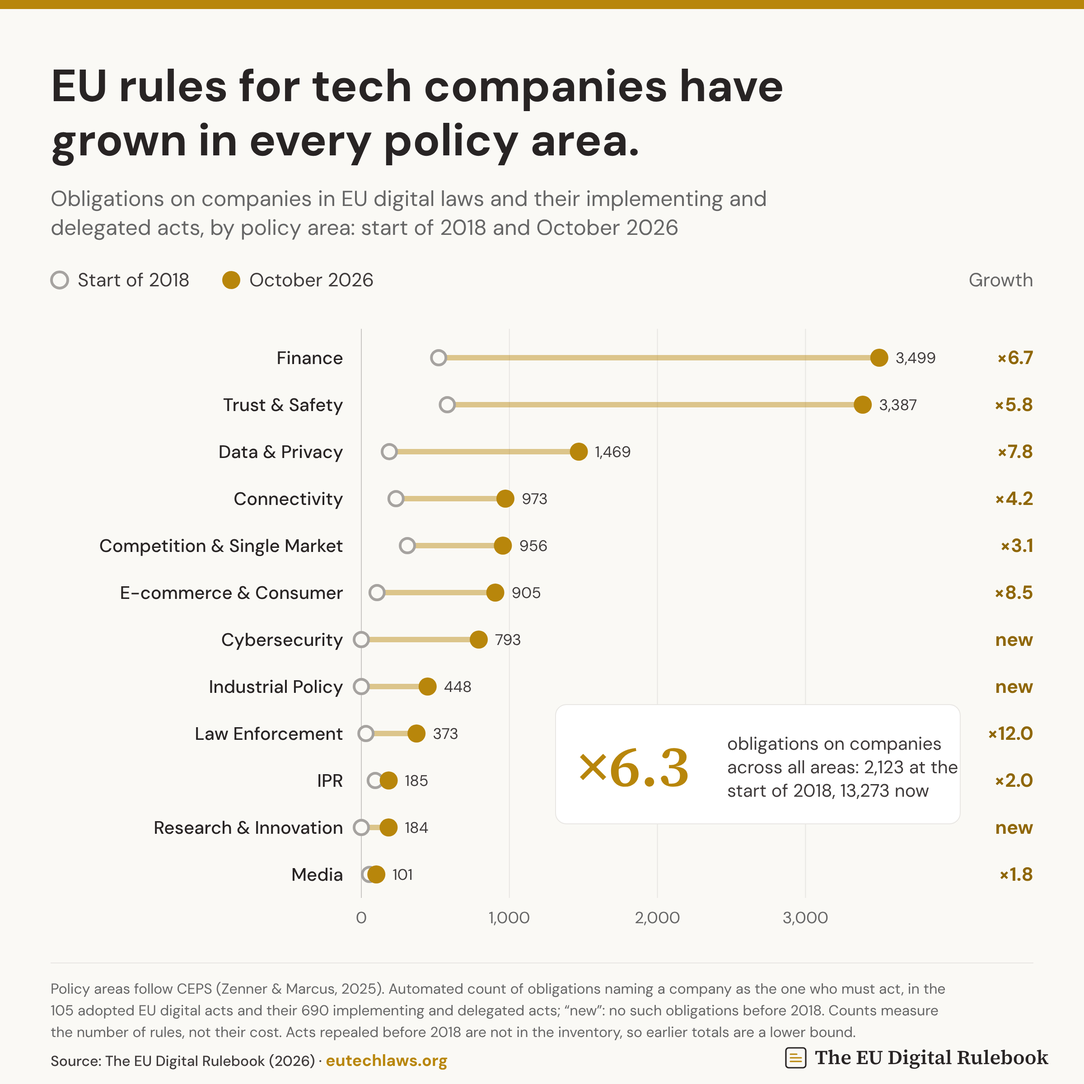
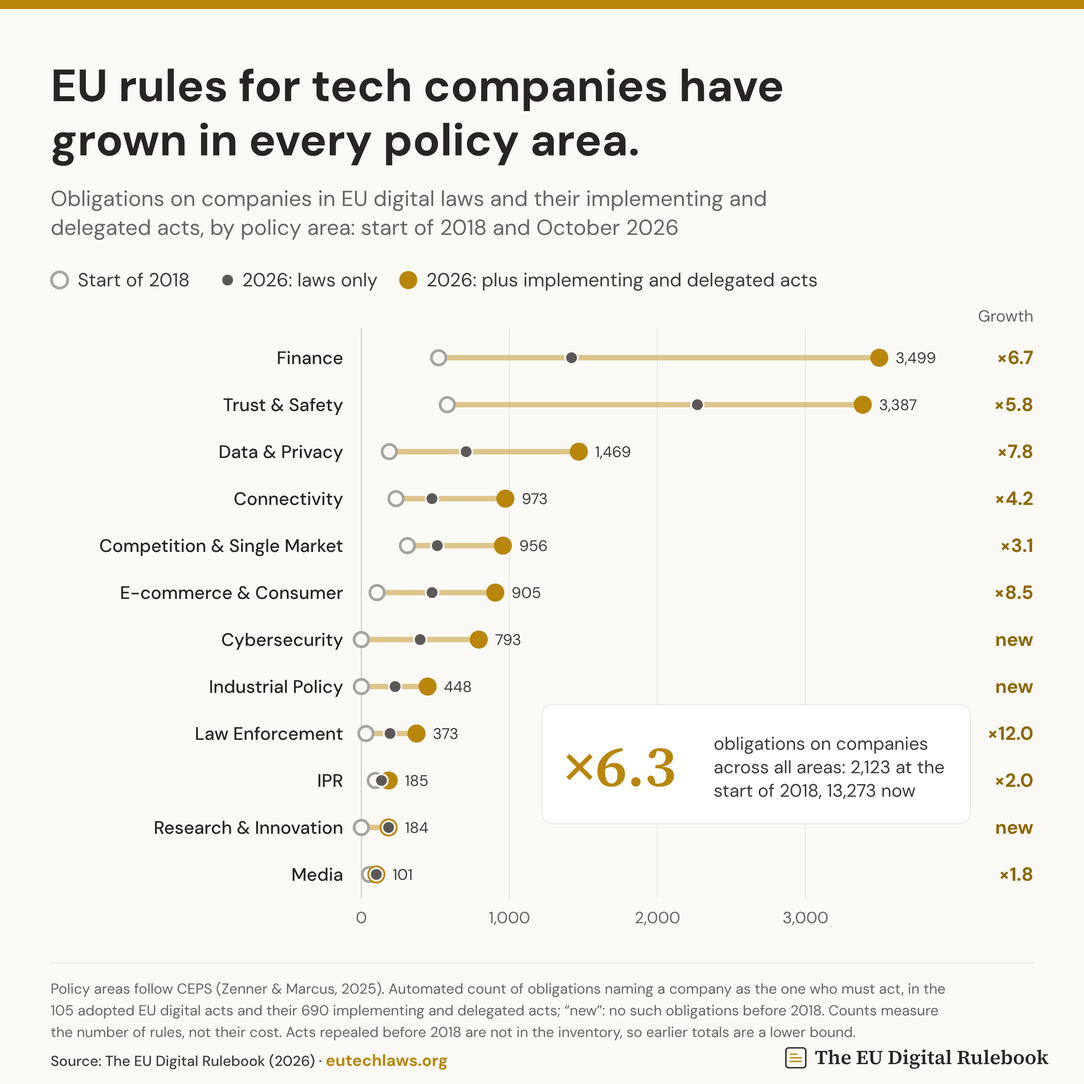
Growth-by-area infographic: laws-only dot for 2026, wider callout
Claude-Session: https://claude.ai/code/session_015jJNgYEity1n7oPe2my2VN

diff --git a/research/ceps_metrics/site/mockup/InfographicAreasGrowth.dc.html b/research/ceps_metrics/site/mockup/InfographicAreasGrowth.dc.html
@@ -13,7 +13,7 @@
 <style>body{margin:0;background:#FAF9F5}</style>
 </helmet>
 <div style="width: 100%; max-width: 1200px; margin: 0 auto; background: #FAF9F5">
-<svg xmlns="http://www.w3.org/2000/svg" viewBox="0 0 1200 1200" width="100%" role="img" aria-label="EU rules for tech companies have grown in every policy area. Obligations on companies, start of 2018 to October 2026: Finance 522 to 3,499; Trust &amp; Safety 581 to 3,387; Data &amp; Privacy 189 to 1,469; Connectivity 234 to 973; Competition &amp; Single Market 311 to 956; E-commerce &amp; Consumer Protection 106 to 905; Cybersecurity 0 to 793; Industrial Policy 0 to 448; Law Enforcement 31 to 373; IPR 94 to 185; Research &amp; Innovation 0 to 184; Media 55 to 101. Across all areas x6.3."><rect width="1200" height="1200" fill="#FAF9F5"></rect><rect width="1200" height="10" fill="#B8860B"></rect><text x="56.0" y="112.0" text-anchor="start" font-family="DM Sans, sans-serif" font-size="50" font-weight="700" fill="#282424">EU rules for tech companies have</text><text x="56.0" y="172.0" text-anchor="start" font-family="DM Sans, sans-serif" font-size="50" font-weight="700" fill="#282424">grown in every policy area.</text><text x="56.0" y="228.0" text-anchor="start" font-family="DM Sans, sans-serif" font-size="24" font-weight="400" fill="#666666">Obligations on companies in EU digital laws and their implementing and</text><text x="56.0" y="260.0" text-anchor="start" font-family="DM Sans, sans-serif" font-size="24" font-weight="400" fill="#666666">delegated acts, by policy area: start of 2018 and October 2026</text><circle cx="66" cy="310" r="9" fill="#FAF9F5" stroke="#A6A3A0" stroke-width="3"></circle><text x="86.0" y="317.0" text-anchor="start" font-family="DM Sans, sans-serif" font-size="21" font-weight="400" fill="#3F3B3B">Start of 2018</text><circle cx="256" cy="310" r="10" fill="#B8860B"></circle><text x="276.0" y="317.0" text-anchor="start" font-family="DM Sans, sans-serif" font-size="21" font-weight="400" fill="#3F3B3B">October 2026</text><text x="1144.0" y="317.0" text-anchor="end" font-family="DM Sans, sans-serif" font-size="21" font-weight="400" fill="#666666">Growth</text><line x1="400.0" x2="400.0" y1="364" y2="994" stroke="#C9C6C3"></line><text x="400.0" y="1022.0" text-anchor="middle" font-family="DM Sans, sans-serif" font-size="18" font-weight="400" fill="#666666">0</text><line x1="563.9" x2="563.9" y1="364" y2="994" stroke="#E8E6E3"></line><text x="563.9" y="1022.0" text-anchor="middle" font-family="DM Sans, sans-serif" font-size="18" font-weight="400" fill="#666666">1,000</text><line x1="727.8" x2="727.8" y1="364" y2="994" stroke="#E8E6E3"></line><text x="727.8" y="1022.0" text-anchor="middle" font-family="DM Sans, sans-serif" font-size="18" font-weight="400" fill="#666666">2,000</text><line x1="891.7" x2="891.7" y1="364" y2="994" stroke="#E8E6E3"></line><text x="891.7" y="1022.0" text-anchor="middle" font-family="DM Sans, sans-serif" font-size="18" font-weight="400" fill="#666666">3,000</text><text x="380.0" y="403.0" text-anchor="end" font-family="DM Sans, sans-serif" font-size="20" font-weight="500" fill="#282424">Finance</text><line x1="485.6" x2="973.4" y1="396.0" y2="396.0" stroke="#B8860B" stroke-opacity="0.45" stroke-width="6" stroke-linecap="round"></line><circle cx="485.6" cy="396.0" r="8" fill="#FAF9F5" stroke="#A6A3A0" stroke-width="3"></circle><circle cx="973.4" cy="396.0" r="10" fill="#B8860B"></circle><text x="991.4" y="402.0" text-anchor="start" font-family="DM Sans, sans-serif" font-size="17" font-weight="400" fill="#3F3B3B">3,499</text><text x="1144.0" y="403.0" text-anchor="end" font-family="DM Sans, sans-serif" font-size="21" font-weight="700" fill="#8F6708">×6.7</text><text x="380.0" y="455.0" text-anchor="end" font-family="DM Sans, sans-serif" font-size="20" font-weight="500" fill="#282424">Trust &amp; Safety</text><line x1="495.2" x2="955.1" y1="448.0" y2="448.0" stroke="#B8860B" stroke-opacity="0.45" stroke-width="6" stroke-linecap="round"></line><circle cx="495.2" cy="448.0" r="8" fill="#FAF9F5" stroke="#A6A3A0" stroke-width="3"></circle><circle cx="955.1" cy="448.0" r="10" fill="#B8860B"></circle><text x="973.1" y="454.0" text-anchor="start" font-family="DM Sans, sans-serif" font-size="17" font-weight="400" fill="#3F3B3B">3,387</text><text x="1144.0" y="455.0" text-anchor="end" font-family="DM Sans, sans-serif" font-size="21" font-weight="700" fill="#8F6708">×5.8</text><text x="380.0" y="507.0" text-anchor="end" font-family="DM Sans, sans-serif" font-size="20" font-weight="500" fill="#282424">Data &amp; Privacy</text><line x1="431.0" x2="640.8" y1="500.0" y2="500.0" stroke="#B8860B" stroke-opacity="0.45" stroke-width="6" stroke-linecap="round"></line><circle cx="431.0" cy="500.0" r="8" fill="#FAF9F5" stroke="#A6A3A0" stroke-width="3"></circle><circle cx="640.8" cy="500.0" r="10" fill="#B8860B"></circle><text x="658.8" y="506.0" text-anchor="start" font-family="DM Sans, sans-serif" font-size="17" font-weight="400" fill="#3F3B3B">1,469</text><text x="1144.0" y="507.0" text-anchor="end" font-family="DM Sans, sans-serif" font-size="21" font-weight="700" fill="#8F6708">×7.8</text><text x="380.0" y="559.0" text-anchor="end" font-family="DM Sans, sans-serif" font-size="20" font-weight="500" fill="#282424">Connectivity</text><line x1="438.4" x2="559.5" y1="552.0" y2="552.0" stroke="#B8860B" stroke-opacity="0.45" stroke-width="6" stroke-linecap="round"></line><circle cx="438.4" cy="552.0" r="8" fill="#FAF9F5" stroke="#A6A3A0" stroke-width="3"></circle><circle cx="559.5" cy="552.0" r="10" fill="#B8860B"></circle><text x="577.5" y="558.0" text-anchor="start" font-family="DM Sans, sans-serif" font-size="17" font-weight="400" fill="#3F3B3B">973</text><text x="1144.0" y="559.0" text-anchor="end" font-family="DM Sans, sans-serif" font-size="21" font-weight="700" fill="#8F6708">×4.2</text><text x="380.0" y="611.0" text-anchor="end" font-family="DM Sans, sans-serif" font-size="20" font-weight="500" fill="#282424">Competition &amp; Single Market</text><line x1="451.0" x2="556.7" y1="604.0" y2="604.0" stroke="#B8860B" stroke-opacity="0.45" stroke-width="6" stroke-linecap="round"></line><circle cx="451.0" cy="604.0" r="8" fill="#FAF9F5" stroke="#A6A3A0" stroke-width="3"></circle><circle cx="556.7" cy="604.0" r="10" fill="#B8860B"></circle><text x="574.7" y="610.0" text-anchor="start" font-family="DM Sans, sans-serif" font-size="17" font-weight="400" fill="#3F3B3B">956</text><text x="1144.0" y="611.0" text-anchor="end" font-family="DM Sans, sans-serif" font-size="21" font-weight="700" fill="#8F6708">×3.1</text><text x="380.0" y="663.0" text-anchor="end" font-family="DM Sans, sans-serif" font-size="20" font-weight="500" fill="#282424">E-commerce &amp; Consumer</text><line x1="417.4" x2="548.3" y1="656.0" y2="656.0" stroke="#B8860B" stroke-opacity="0.45" stroke-width="6" stroke-linecap="round"></line><circle cx="417.4" cy="656.0" r="8" fill="#FAF9F5" stroke="#A6A3A0" stroke-width="3"></circle><circle cx="548.3" cy="656.0" r="10" fill="#B8860B"></circle><text x="566.3" y="662.0" text-anchor="start" font-family="DM Sans, sans-serif" font-size="17" font-weight="400" fill="#3F3B3B">905</text><text x="1144.0" y="663.0" text-anchor="end" font-family="DM Sans, sans-serif" font-size="21" font-weight="700" fill="#8F6708">×8.5</text><text x="380.0" y="715.0" text-anchor="end" font-family="DM Sans, sans-serif" font-size="20" font-weight="500" fill="#282424">Cybersecurity</text><line x1="400.0" x2="530.0" y1="708.0" y2="708.0" stroke="#B8860B" stroke-opacity="0.45" stroke-width="6" stroke-linecap="round"></line><circle cx="400.0" cy="708.0" r="8" fill="#FAF9F5" stroke="#A6A3A0" stroke-width="3"></circle><circle cx="530.0" cy="708.0" r="10" fill="#B8860B"></circle><text x="548.0" y="714.0" text-anchor="start" font-family="DM Sans, sans-serif" font-size="17" font-weight="400" fill="#3F3B3B">793</text><text x="1144.0" y="715.0" text-anchor="end" font-family="DM Sans, sans-serif" font-size="21" font-weight="700" fill="#8F6708">new</text><text x="380.0" y="767.0" text-anchor="end" font-family="DM Sans, sans-serif" font-size="20" font-weight="500" fill="#282424">Industrial Policy</text><line x1="400.0" x2="473.4" y1="760.0" y2="760.0" stroke="#B8860B" stroke-opacity="0.45" stroke-width="6" stroke-linecap="round"></line><circle cx="400.0" cy="760.0" r="8" fill="#FAF9F5" stroke="#A6A3A0" stroke-width="3"></circle><circle cx="473.4" cy="760.0" r="10" fill="#B8860B"></circle><text x="491.4" y="766.0" text-anchor="start" font-family="DM Sans, sans-serif" font-size="17" font-weight="400" fill="#3F3B3B">448</text><text x="1144.0" y="767.0" text-anchor="end" font-family="DM Sans, sans-serif" font-size="21" font-weight="700" fill="#8F6708">new</text><text x="380.0" y="819.0" text-anchor="end" font-family="DM Sans, sans-serif" font-size="20" font-weight="500" fill="#282424">Law Enforcement</text><line x1="405.1" x2="461.1" y1="812.0" y2="812.0" stroke="#B8860B" stroke-opacity="0.45" stroke-width="6" stroke-linecap="round"></line><circle cx="405.1" cy="812.0" r="8" fill="#FAF9F5" stroke="#A6A3A0" stroke-width="3"></circle><circle cx="461.1" cy="812.0" r="10" fill="#B8860B"></circle><text x="479.1" y="818.0" text-anchor="start" font-family="DM Sans, sans-serif" font-size="17" font-weight="400" fill="#3F3B3B">373</text><text x="1144.0" y="819.0" text-anchor="end" font-family="DM Sans, sans-serif" font-size="21" font-weight="700" fill="#8F6708">×12.0</text><text x="380.0" y="871.0" text-anchor="end" font-family="DM Sans, sans-serif" font-size="20" font-weight="500" fill="#282424">IPR</text><line x1="415.4" x2="430.3" y1="864.0" y2="864.0" stroke="#B8860B" stroke-opacity="0.45" stroke-width="6" stroke-linecap="round"></line><circle cx="415.4" cy="864.0" r="8" fill="#FAF9F5" stroke="#A6A3A0" stroke-width="3"></circle><circle cx="430.3" cy="864.0" r="10" fill="#B8860B"></circle><text x="448.3" y="870.0" text-anchor="start" font-family="DM Sans, sans-serif" font-size="17" font-weight="400" fill="#3F3B3B">185</text><text x="1144.0" y="871.0" text-anchor="end" font-family="DM Sans, sans-serif" font-size="21" font-weight="700" fill="#8F6708">×2.0</text><text x="380.0" y="923.0" text-anchor="end" font-family="DM Sans, sans-serif" font-size="20" font-weight="500" fill="#282424">Research &amp; Innovation</text><line x1="400.0" x2="430.2" y1="916.0" y2="916.0" stroke="#B8860B" stroke-opacity="0.45" stroke-width="6" stroke-linecap="round"></line><circle cx="400.0" cy="916.0" r="8" fill="#FAF9F5" stroke="#A6A3A0" stroke-width="3"></circle><circle cx="430.2" cy="916.0" r="10" fill="#B8860B"></circle><text x="448.2" y="922.0" text-anchor="start" font-family="DM Sans, sans-serif" font-size="17" font-weight="400" fill="#3F3B3B">184</text><text x="1144.0" y="923.0" text-anchor="end" font-family="DM Sans, sans-serif" font-size="21" font-weight="700" fill="#8F6708">new</text><text x="380.0" y="975.0" text-anchor="end" font-family="DM Sans, sans-serif" font-size="20" font-weight="500" fill="#282424">Media</text><line x1="409.0" x2="416.6" y1="968.0" y2="968.0" stroke="#B8860B" stroke-opacity="0.45" stroke-width="6" stroke-linecap="round"></line><circle cx="409.0" cy="968.0" r="8" fill="#FAF9F5" stroke="#A6A3A0" stroke-width="3"></circle><circle cx="416.6" cy="968.0" r="10" fill="#B8860B"></circle><text x="434.6" y="974.0" text-anchor="start" font-family="DM Sans, sans-serif" font-size="17" font-weight="400" fill="#3F3B3B">101</text><text x="1144.0" y="975.0" text-anchor="end" font-family="DM Sans, sans-serif" font-size="21" font-weight="700" fill="#8F6708">×1.8</text><rect x="615" y="780" width="448" height="132" rx="12" fill="#FFFFFF" stroke="#E8E6E3"></rect><text x="639.0" y="870.0" text-anchor="start" font-family="'Source Serif 4', Georgia, serif" font-size="64" font-weight="700" fill="#B8860B">×6.3</text><text x="805.0" y="830.0" text-anchor="start" font-family="DM Sans, sans-serif" font-size="20" font-weight="400" fill="#3F3B3B">obligations on companies</text><text x="805.0" y="856.0" text-anchor="start" font-family="DM Sans, sans-serif" font-size="20" font-weight="400" fill="#3F3B3B">across all areas: 2,123 at the</text><text x="805.0" y="882.0" text-anchor="start" font-family="DM Sans, sans-serif" font-size="20" font-weight="400" fill="#3F3B3B">start of 2018, 13,273 now</text><line x1="56" x2="1144" y1="1066" y2="1066" stroke="#E8E6E3"></line><text x="56.0" y="1100.0" text-anchor="start" font-family="DM Sans, sans-serif" font-size="16" font-weight="400" fill="#666666">Policy areas follow CEPS (Zenner &amp; Marcus, 2025). Automated count of obligations naming a company as the one who must act, in the</text><text x="56.0" y="1124.0" text-anchor="start" font-family="DM Sans, sans-serif" font-size="16" font-weight="400" fill="#666666">105 adopted EU digital acts and their 690 implementing and delegated acts; “new”: no such obligations before 2018. Counts measure</text><text x="56.0" y="1148.0" text-anchor="start" font-family="DM Sans, sans-serif" font-size="16" font-weight="400" fill="#666666">the number of rules, not their cost. Acts repealed before 2018 are not in the inventory, so earlier totals are a lower bound.</text><g transform="translate(870,1160)"><rect x="0" y="0" width="22" height="22" rx="3" fill="none" stroke="#282424" stroke-width="1.6"></rect><path d="M5 15h12M5 11h12M5 7h7" stroke="#B8860B" stroke-width="1.6" stroke-linecap="round"></path></g><text x="902.0" y="1178.0" text-anchor="start" font-family="'Source Serif 4', Georgia, serif" font-size="22" font-weight="400" fill="#282424">The EU Digital Rulebook</text><text x="56.0" y="1180.0" text-anchor="start" font-family="DM Sans, sans-serif" font-size="16" font-weight="500" fill="#3F3B3B">Source: The EU Digital Rulebook (2026) · <tspan fill="#B8860B" font-weight="700" font-size="18">eutechlaws.org</tspan></text></svg>
+<svg xmlns="http://www.w3.org/2000/svg" viewBox="0 0 1200 1200" width="100%" role="img" aria-label="EU rules for tech companies have grown in every policy area. Obligations on companies, start of 2018 to October 2026: Finance 522 to 3,499; Trust &amp; Safety 581 to 3,387; Data &amp; Privacy 189 to 1,469; Connectivity 234 to 973; Competition &amp; Single Market 311 to 956; E-commerce &amp; Consumer Protection 106 to 905; Cybersecurity 0 to 793; Industrial Policy 0 to 448; Law Enforcement 31 to 373; IPR 94 to 185; Research &amp; Innovation 0 to 184; Media 55 to 101. Across all areas x6.3."><rect width="1200" height="1200" fill="#FAF9F5"></rect><rect width="1200" height="10" fill="#B8860B"></rect><text x="56.0" y="112.0" text-anchor="start" font-family="DM Sans, sans-serif" font-size="50" font-weight="700" fill="#282424">EU rules for tech companies have</text><text x="56.0" y="172.0" text-anchor="start" font-family="DM Sans, sans-serif" font-size="50" font-weight="700" fill="#282424">grown in every policy area.</text><text x="56.0" y="228.0" text-anchor="start" font-family="DM Sans, sans-serif" font-size="24" font-weight="400" fill="#666666">Obligations on companies in EU digital laws and their implementing and</text><text x="56.0" y="260.0" text-anchor="start" font-family="DM Sans, sans-serif" font-size="24" font-weight="400" fill="#666666">delegated acts, by policy area: start of 2018 and October 2026</text><circle cx="66" cy="310" r="9" fill="#FAF9F5" stroke="#A6A3A0" stroke-width="3"></circle><text x="86.0" y="317.0" text-anchor="start" font-family="DM Sans, sans-serif" font-size="21" font-weight="400" fill="#3F3B3B">Start of 2018</text><circle cx="252" cy="310" r="7" fill="#5C5858" stroke="#FAF9F5" stroke-width="2"></circle><text x="268.0" y="317.0" text-anchor="start" font-family="DM Sans, sans-serif" font-size="21" font-weight="400" fill="#3F3B3B">2026: laws only</text><circle cx="452" cy="310" r="10" fill="#B8860B"></circle><text x="472.0" y="317.0" text-anchor="start" font-family="DM Sans, sans-serif" font-size="21" font-weight="400" fill="#3F3B3B">2026: plus implementing and delegated acts</text><text x="1144.0" y="356.0" text-anchor="end" font-family="DM Sans, sans-serif" font-size="18" font-weight="400" fill="#666666">Growth</text><line x1="400.0" x2="400.0" y1="364" y2="994" stroke="#C9C6C3"></line><text x="400.0" y="1022.0" text-anchor="middle" font-family="DM Sans, sans-serif" font-size="18" font-weight="400" fill="#666666">0</text><line x1="563.9" x2="563.9" y1="364" y2="994" stroke="#E8E6E3"></line><text x="563.9" y="1022.0" text-anchor="middle" font-family="DM Sans, sans-serif" font-size="18" font-weight="400" fill="#666666">1,000</text><line x1="727.8" x2="727.8" y1="364" y2="994" stroke="#E8E6E3"></line><text x="727.8" y="1022.0" text-anchor="middle" font-family="DM Sans, sans-serif" font-size="18" font-weight="400" fill="#666666">2,000</text><line x1="891.7" x2="891.7" y1="364" y2="994" stroke="#E8E6E3"></line><text x="891.7" y="1022.0" text-anchor="middle" font-family="DM Sans, sans-serif" font-size="18" font-weight="400" fill="#666666">3,000</text><text x="380.0" y="403.0" text-anchor="end" font-family="DM Sans, sans-serif" font-size="20" font-weight="500" fill="#282424">Finance</text><line x1="485.6" x2="973.4" y1="396.0" y2="396.0" stroke="#B8860B" stroke-opacity="0.45" stroke-width="6" stroke-linecap="round"></line><circle cx="485.6" cy="396.0" r="8" fill="#FAF9F5" stroke="#A6A3A0" stroke-width="3"></circle><circle cx="973.4" cy="396.0" r="10" fill="#B8860B"></circle><circle cx="632.7" cy="396.0" r="7" fill="#5C5858" stroke="#FAF9F5" stroke-width="2"></circle><text x="991.4" y="402.0" text-anchor="start" font-family="DM Sans, sans-serif" font-size="17" font-weight="400" fill="#3F3B3B">3,499</text><text x="1144.0" y="403.0" text-anchor="end" font-family="DM Sans, sans-serif" font-size="21" font-weight="700" fill="#8F6708">×6.7</text><text x="380.0" y="455.0" text-anchor="end" font-family="DM Sans, sans-serif" font-size="20" font-weight="500" fill="#282424">Trust &amp; Safety</text><line x1="495.2" x2="955.1" y1="448.0" y2="448.0" stroke="#B8860B" stroke-opacity="0.45" stroke-width="6" stroke-linecap="round"></line><circle cx="495.2" cy="448.0" r="8" fill="#FAF9F5" stroke="#A6A3A0" stroke-width="3"></circle><circle cx="955.1" cy="448.0" r="10" fill="#B8860B"></circle><circle cx="772.0" cy="448.0" r="7" fill="#5C5858" stroke="#FAF9F5" stroke-width="2"></circle><text x="973.1" y="454.0" text-anchor="start" font-family="DM Sans, sans-serif" font-size="17" font-weight="400" fill="#3F3B3B">3,387</text><text x="1144.0" y="455.0" text-anchor="end" font-family="DM Sans, sans-serif" font-size="21" font-weight="700" fill="#8F6708">×5.8</text><text x="380.0" y="507.0" text-anchor="end" font-family="DM Sans, sans-serif" font-size="20" font-weight="500" fill="#282424">Data &amp; Privacy</text><line x1="431.0" x2="640.8" y1="500.0" y2="500.0" stroke="#B8860B" stroke-opacity="0.45" stroke-width="6" stroke-linecap="round"></line><circle cx="431.0" cy="500.0" r="8" fill="#FAF9F5" stroke="#A6A3A0" stroke-width="3"></circle><circle cx="640.8" cy="500.0" r="10" fill="#B8860B"></circle><circle cx="516.0" cy="500.0" r="7" fill="#5C5858" stroke="#FAF9F5" stroke-width="2"></circle><text x="658.8" y="506.0" text-anchor="start" font-family="DM Sans, sans-serif" font-size="17" font-weight="400" fill="#3F3B3B">1,469</text><text x="1144.0" y="507.0" text-anchor="end" font-family="DM Sans, sans-serif" font-size="21" font-weight="700" fill="#8F6708">×7.8</text><text x="380.0" y="559.0" text-anchor="end" font-family="DM Sans, sans-serif" font-size="20" font-weight="500" fill="#282424">Connectivity</text><line x1="438.4" x2="559.5" y1="552.0" y2="552.0" stroke="#B8860B" stroke-opacity="0.45" stroke-width="6" stroke-linecap="round"></line><circle cx="438.4" cy="552.0" r="8" fill="#FAF9F5" stroke="#A6A3A0" stroke-width="3"></circle><circle cx="559.5" cy="552.0" r="10" fill="#B8860B"></circle><circle cx="478.2" cy="552.0" r="7" fill="#5C5858" stroke="#FAF9F5" stroke-width="2"></circle><text x="577.5" y="558.0" text-anchor="start" font-family="DM Sans, sans-serif" font-size="17" font-weight="400" fill="#3F3B3B">973</text><text x="1144.0" y="559.0" text-anchor="end" font-family="DM Sans, sans-serif" font-size="21" font-weight="700" fill="#8F6708">×4.2</text><text x="380.0" y="611.0" text-anchor="end" font-family="DM Sans, sans-serif" font-size="20" font-weight="500" fill="#282424">Competition &amp; Single Market</text><line x1="451.0" x2="556.7" y1="604.0" y2="604.0" stroke="#B8860B" stroke-opacity="0.45" stroke-width="6" stroke-linecap="round"></line><circle cx="451.0" cy="604.0" r="8" fill="#FAF9F5" stroke="#A6A3A0" stroke-width="3"></circle><circle cx="556.7" cy="604.0" r="10" fill="#B8860B"></circle><circle cx="484.1" cy="604.0" r="7" fill="#5C5858" stroke="#FAF9F5" stroke-width="2"></circle><text x="574.7" y="610.0" text-anchor="start" font-family="DM Sans, sans-serif" font-size="17" font-weight="400" fill="#3F3B3B">956</text><text x="1144.0" y="611.0" text-anchor="end" font-family="DM Sans, sans-serif" font-size="21" font-weight="700" fill="#8F6708">×3.1</text><text x="380.0" y="663.0" text-anchor="end" font-family="DM Sans, sans-serif" font-size="20" font-weight="500" fill="#282424">E-commerce &amp; Consumer</text><line x1="417.4" x2="548.3" y1="656.0" y2="656.0" stroke="#B8860B" stroke-opacity="0.45" stroke-width="6" stroke-linecap="round"></line><circle cx="417.4" cy="656.0" r="8" fill="#FAF9F5" stroke="#A6A3A0" stroke-width="3"></circle><circle cx="548.3" cy="656.0" r="10" fill="#B8860B"></circle><circle cx="478.3" cy="656.0" r="7" fill="#5C5858" stroke="#FAF9F5" stroke-width="2"></circle><text x="566.3" y="662.0" text-anchor="start" font-family="DM Sans, sans-serif" font-size="17" font-weight="400" fill="#3F3B3B">905</text><text x="1144.0" y="663.0" text-anchor="end" font-family="DM Sans, sans-serif" font-size="21" font-weight="700" fill="#8F6708">×8.5</text><text x="380.0" y="715.0" text-anchor="end" font-family="DM Sans, sans-serif" font-size="20" font-weight="500" fill="#282424">Cybersecurity</text><line x1="400.0" x2="530.0" y1="708.0" y2="708.0" stroke="#B8860B" stroke-opacity="0.45" stroke-width="6" stroke-linecap="round"></line><circle cx="400.0" cy="708.0" r="8" fill="#FAF9F5" stroke="#A6A3A0" stroke-width="3"></circle><circle cx="530.0" cy="708.0" r="10" fill="#B8860B"></circle><circle cx="465.1" cy="708.0" r="7" fill="#5C5858" stroke="#FAF9F5" stroke-width="2"></circle><text x="548.0" y="714.0" text-anchor="start" font-family="DM Sans, sans-serif" font-size="17" font-weight="400" fill="#3F3B3B">793</text><text x="1144.0" y="715.0" text-anchor="end" font-family="DM Sans, sans-serif" font-size="21" font-weight="700" fill="#8F6708">new</text><text x="380.0" y="767.0" text-anchor="end" font-family="DM Sans, sans-serif" font-size="20" font-weight="500" fill="#282424">Industrial Policy</text><line x1="400.0" x2="473.4" y1="760.0" y2="760.0" stroke="#B8860B" stroke-opacity="0.45" stroke-width="6" stroke-linecap="round"></line><circle cx="400.0" cy="760.0" r="8" fill="#FAF9F5" stroke="#A6A3A0" stroke-width="3"></circle><circle cx="473.4" cy="760.0" r="10" fill="#B8860B"></circle><circle cx="437.4" cy="760.0" r="7" fill="#5C5858" stroke="#FAF9F5" stroke-width="2"></circle><text x="491.4" y="766.0" text-anchor="start" font-family="DM Sans, sans-serif" font-size="17" font-weight="400" fill="#3F3B3B">448</text><text x="1144.0" y="767.0" text-anchor="end" font-family="DM Sans, sans-serif" font-size="21" font-weight="700" fill="#8F6708">new</text><text x="380.0" y="819.0" text-anchor="end" font-family="DM Sans, sans-serif" font-size="20" font-weight="500" fill="#282424">Law Enforcement</text><line x1="405.1" x2="461.1" y1="812.0" y2="812.0" stroke="#B8860B" stroke-opacity="0.45" stroke-width="6" stroke-linecap="round"></line><circle cx="405.1" cy="812.0" r="8" fill="#FAF9F5" stroke="#A6A3A0" stroke-width="3"></circle><circle cx="461.1" cy="812.0" r="10" fill="#B8860B"></circle><circle cx="431.8" cy="812.0" r="7" fill="#5C5858" stroke="#FAF9F5" stroke-width="2"></circle><text x="479.1" y="818.0" text-anchor="start" font-family="DM Sans, sans-serif" font-size="17" font-weight="400" fill="#3F3B3B">373</text><text x="1144.0" y="819.0" text-anchor="end" font-family="DM Sans, sans-serif" font-size="21" font-weight="700" fill="#8F6708">×12.0</text><text x="380.0" y="871.0" text-anchor="end" font-family="DM Sans, sans-serif" font-size="20" font-weight="500" fill="#282424">IPR</text><line x1="415.4" x2="430.3" y1="864.0" y2="864.0" stroke="#B8860B" stroke-opacity="0.45" stroke-width="6" stroke-linecap="round"></line><circle cx="415.4" cy="864.0" r="8" fill="#FAF9F5" stroke="#A6A3A0" stroke-width="3"></circle><circle cx="430.3" cy="864.0" r="10" fill="#B8860B"></circle><circle cx="422.3" cy="864.0" r="7" fill="#5C5858" stroke="#FAF9F5" stroke-width="2"></circle><text x="448.3" y="870.0" text-anchor="start" font-family="DM Sans, sans-serif" font-size="17" font-weight="400" fill="#3F3B3B">185</text><text x="1144.0" y="871.0" text-anchor="end" font-family="DM Sans, sans-serif" font-size="21" font-weight="700" fill="#8F6708">×2.0</text><text x="380.0" y="923.0" text-anchor="end" font-family="DM Sans, sans-serif" font-size="20" font-weight="500" fill="#282424">Research &amp; Innovation</text><line x1="400.0" x2="430.2" y1="916.0" y2="916.0" stroke="#B8860B" stroke-opacity="0.45" stroke-width="6" stroke-linecap="round"></line><circle cx="400.0" cy="916.0" r="8" fill="#FAF9F5" stroke="#A6A3A0" stroke-width="3"></circle><circle cx="430.2" cy="916.0" r="10" fill="#B8860B"></circle><circle cx="430.2" cy="916.0" r="7" fill="#5C5858" stroke="#FAF9F5" stroke-width="2"></circle><text x="448.2" y="922.0" text-anchor="start" font-family="DM Sans, sans-serif" font-size="17" font-weight="400" fill="#3F3B3B">184</text><text x="1144.0" y="923.0" text-anchor="end" font-family="DM Sans, sans-serif" font-size="21" font-weight="700" fill="#8F6708">new</text><text x="380.0" y="975.0" text-anchor="end" font-family="DM Sans, sans-serif" font-size="20" font-weight="500" fill="#282424">Media</text><line x1="409.0" x2="416.6" y1="968.0" y2="968.0" stroke="#B8860B" stroke-opacity="0.45" stroke-width="6" stroke-linecap="round"></line><circle cx="409.0" cy="968.0" r="8" fill="#FAF9F5" stroke="#A6A3A0" stroke-width="3"></circle><circle cx="416.6" cy="968.0" r="10" fill="#B8860B"></circle><circle cx="416.6" cy="968.0" r="7" fill="#5C5858" stroke="#FAF9F5" stroke-width="2"></circle><text x="434.6" y="974.0" text-anchor="start" font-family="DM Sans, sans-serif" font-size="17" font-weight="400" fill="#3F3B3B">101</text><text x="1144.0" y="975.0" text-anchor="end" font-family="DM Sans, sans-serif" font-size="21" font-weight="700" fill="#8F6708">×1.8</text><rect x="600" y="780" width="474" height="132" rx="12" fill="#FFFFFF" stroke="#E8E6E3"></rect><text x="624.0" y="870.0" text-anchor="start" font-family="'Source Serif 4', Georgia, serif" font-size="64" font-weight="700" fill="#B8860B">×6.3</text><text x="790.0" y="830.0" text-anchor="start" font-family="DM Sans, sans-serif" font-size="20" font-weight="400" fill="#3F3B3B">obligations on companies</text><text x="790.0" y="856.0" text-anchor="start" font-family="DM Sans, sans-serif" font-size="20" font-weight="400" fill="#3F3B3B">across all areas: 2,123 at the</text><text x="790.0" y="882.0" text-anchor="start" font-family="DM Sans, sans-serif" font-size="20" font-weight="400" fill="#3F3B3B">start of 2018, 13,273 now</text><line x1="56" x2="1144" y1="1066" y2="1066" stroke="#E8E6E3"></line><text x="56.0" y="1100.0" text-anchor="start" font-family="DM Sans, sans-serif" font-size="16" font-weight="400" fill="#666666">Policy areas follow CEPS (Zenner &amp; Marcus, 2025). Automated count of obligations naming a company as the one who must act, in the</text><text x="56.0" y="1124.0" text-anchor="start" font-family="DM Sans, sans-serif" font-size="16" font-weight="400" fill="#666666">105 adopted EU digital acts and their 690 implementing and delegated acts; “new”: no such obligations before 2018. Counts measure</text><text x="56.0" y="1148.0" text-anchor="start" font-family="DM Sans, sans-serif" font-size="16" font-weight="400" fill="#666666">the number of rules, not their cost. Acts repealed before 2018 are not in the inventory, so earlier totals are a lower bound.</text><g transform="translate(870,1160)"><rect x="0" y="0" width="22" height="22" rx="3" fill="none" stroke="#282424" stroke-width="1.6"></rect><path d="M5 15h12M5 11h12M5 7h7" stroke="#B8860B" stroke-width="1.6" stroke-linecap="round"></path></g><text x="902.0" y="1178.0" text-anchor="start" font-family="'Source Serif 4', Georgia, serif" font-size="22" font-weight="400" fill="#282424">The EU Digital Rulebook</text><text x="56.0" y="1180.0" text-anchor="start" font-family="DM Sans, sans-serif" font-size="16" font-weight="500" fill="#3F3B3B">Source: The EU Digital Rulebook (2026) · <tspan fill="#B8860B" font-weight="700" font-size="18">eutechlaws.org</tspan></text></svg>
 </div>
 </x-dc>
 <script type="text/x-dc" data-dc-script data-props='{"$preview":{"width":1200,"height":1200}}'>

diff --git a/research/ceps_metrics/site/mockup/Infographics.dc.html b/research/ceps_metrics/site/mockup/Infographics.dc.html
@@ -101,7 +101,7 @@ a{color:#282424}a:hover{color:#8F6708}
 </x-dc>
 <script type="text/x-dc" data-dc-script data-props='{"$preview":{"width":1440,"height":1700}}'>
 const IG = [
-  { title: "EU rules for tech companies have grown in every policy area.", thumb: "/_blob/b3f70dca31645517768842a56f77bee0", full: "/_blob/3226883544a36d5291513a005989e8a6", file: "eutechlaws_growth_by_policy_area.png" },
+  { title: "EU rules for tech companies have grown in every policy area.", thumb: "/_blob/cf0117766093145dca683193263f82e1", full: "/_blob/cc46a8b1831c99dbdf5f225b9fb407e9", file: "eutechlaws_growth_by_policy_area.png" },
   { title: "The more funding a European start-up raises, the more likely it is to leave.", thumb: "/_blob/6ed0fcad3eb344473634dddd6183bc19", full: "/_blob/833cb7b77a90e4b9a4263f285101f429", file: "eutechlaws_startups_leaving.png" },
   { title: "Europe used to be poorer because it worked less. Now it is poorer because each hour produces less.", thumb: "/_blob/3605da905a286d2bf58e256b9c649528", full: "/_blob/6a98240052e9aedf7844fda5d9ffc7fb", file: "eutechlaws_productivity_gap.png" },
   { title: "The AI Act carries three times as many obligations as Sarbanes-Oxley", thumb: "/_blob/f27d5fcf53e50e446c4635d5af52a622", full: "/_blob/4b7a6147a62abaed40a03fbbf10e2193", file: "eutechlaws_ai_act_vs_sox.png" },

diff --git a/research/ceps_metrics/site/build_infographic_areas_growth.py b/research/ceps_metrics/site/build_infographic_areas_growth.py
@@ -5,7 +5,7 @@ import collections, os
 import openpyxl
 
 INK, INK2, MUTED, LINE, BASE = "#282424", "#3F3B3B", "#666666", "#E8E6E3", "#C9C6C3"
-GOLD, GOLD_D, STONE, BG = "#B8860B", "#8F6708", "#A6A3A0", "#FAF9F5"
+GOLD, GOLD_D, STONE, SLATE, BG = "#B8860B", "#8F6708", "#A6A3A0", "#5C5858", "#FAF9F5"
 SANS = 'font-family="DM Sans, sans-serif"'
 SERIF = "font-family=\"'Source Serif 4', Georgia, serif\""
 W = H = 1200
@@ -28,7 +28,9 @@ area_of = {r["row_id"]: r["policy_area_ceps"] for r in instruments}
 inst = [r for r in instruments if r["adoption_date"] and r["restrictions_total"] is not None and r["status_oct2026"] == "adopted"]
 sec = [r for r in sheet("secondary_acts") if r["kind"] in ("implementing", "delegated") and r["date"] and r["restrictions_total"] is not None]
 yr = lambda d: int(str(d)[:4])
-then, now = collections.Counter(), collections.Counter()
+then, now, now_laws = collections.Counter(), collections.Counter(), collections.Counter()
+for r in inst:
+    now_laws[r["policy_area_ceps"]] += r["addr_private_parties"] or 0
 for a, d, v in ([(r["policy_area_ceps"], r["adoption_date"], r["addr_private_parties"] or 0) for r in inst] +
                 [(area_of.get(r["parent_row_id"]), r["date"], r["addr_private_parties"] or 0) for r in sec]):
     now[a] += v
@@ -43,13 +45,14 @@ for i, line in enumerate(("EU rules for tech companies have", "grown in every po
 g.append(t(56, 228, "Obligations on companies in EU digital laws and their implementing and", 24, MUTED))
 g.append(t(56, 260, "delegated acts, by policy area: start of 2018 and October 2026", 24, MUTED))
 g.append(f'<circle cx="66" cy="310" r="9" fill="{BG}" stroke="{STONE}" stroke-width="3"></circle>' + t(86, 317, "Start of 2018", 21, INK2))
-g.append(f'<circle cx="256" cy="310" r="10" fill="{GOLD}"></circle>' + t(276, 317, "October 2026", 21, INK2))
-g.append(t(W - 56, 317, "Growth", 21, MUTED, "end"))
+g.append(f'<circle cx="252" cy="310" r="7" fill="{SLATE}" stroke="{BG}" stroke-width="2"></circle>' + t(268, 317, "2026: laws only", 21, INK2))
+g.append(f'<circle cx="452" cy="310" r="10" fill="{GOLD}"></circle>' + t(472, 317, "2026: plus implementing and delegated acts", 21, INK2))
 # chart
 L, R, TOP, ROW = 400, 990, 370, 52
 VMAX = 3600
 X = lambda v: L + v / VMAX * (R - L)
 BOT = TOP + ROW * len(areas)
+g.append(t(W - 56, TOP - 14, "Growth", 18, MUTED, "end"))
 for v in range(0, VMAX + 1, 1000):
     g.append(f'<line x1="{X(v):.1f}" x2="{X(v):.1f}" y1="{TOP - 6}" y2="{BOT}" stroke="{BASE if v == 0 else LINE}"></line>')
     g.append(t(X(v), BOT + 28, f"{v:,}", 18, MUTED, "middle"))
@@ -60,11 +63,12 @@ for i, a in enumerate(areas):
     g.append(f'<line x1="{X(then[a]):.1f}" x2="{X(now[a]):.1f}" y1="{y:.1f}" y2="{y:.1f}" stroke="{GOLD}" stroke-opacity="0.45" stroke-width="6" stroke-linecap="round"></line>')
     g.append(f'<circle cx="{X(then[a]):.1f}" cy="{y:.1f}" r="8" fill="{BG}" stroke="{STONE}" stroke-width="3"></circle>')
     g.append(f'<circle cx="{X(now[a]):.1f}" cy="{y:.1f}" r="10" fill="{GOLD}"></circle>')
+    g.append(f'<circle cx="{X(now_laws[a]):.1f}" cy="{y:.1f}" r="7" fill="{SLATE}" stroke="{BG}" stroke-width="2"></circle>')
     g.append(t(X(now[a]) + 18, y + 6, f"{now[a]:,}", 17, INK2))
     gr = "new" if then[a] == 0 else f"×{now[a] / then[a]:.1f}"
     g.append(t(W - 56, y + 7, gr, 21, GOLD_D, "end", 700))
 # callout
-cx, cy, cw, ch = 615, BOT - 4 * ROW - 6, 448, 132
+cx, cy, cw, ch = 600, BOT - 4 * ROW - 6, 474, 132
 g.append(f'<rect x="{cx}" y="{cy}" width="{cw}" height="{ch}" rx="12" fill="#FFFFFF" stroke="{LINE}"></rect>')
 g.append(t(cx + 24, cy + 90, f"×{factor:.1f}", 64, GOLD, weight=700, font=SERIF))
 g.append(t(cx + 190, cy + 50, "obligations on companies", 20, INK2))
